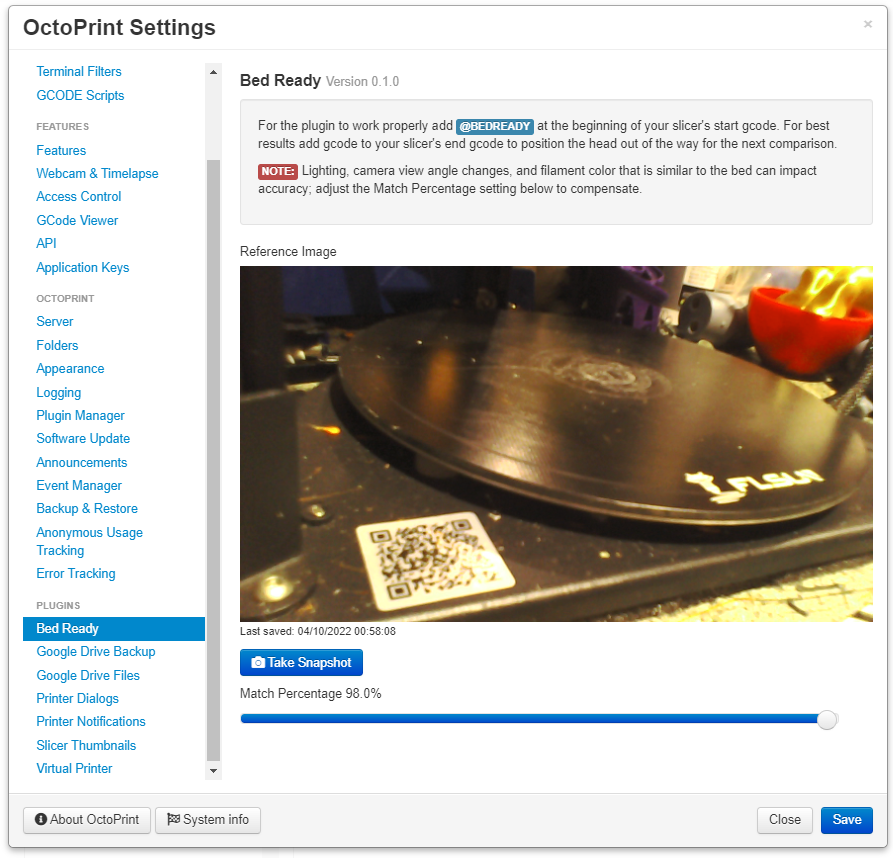
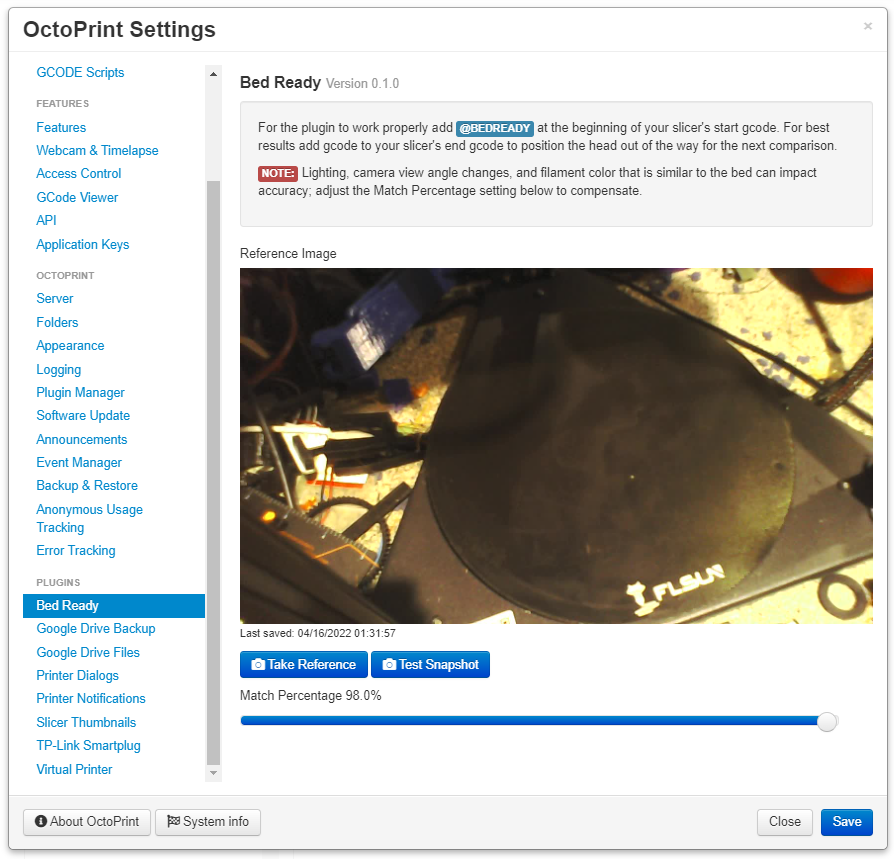
add test snapshot and related readme updates

diff --git a/octoprint_bedready/static/js/bedready.js b/octoprint_bedready/static/js/bedready.js
@@ -29,6 +29,8 @@ $(function () {
             }
             if (data.hasOwnProperty('similarity')) {
                 self.popup_options.text = '<div class="row-fluid"><p>Match percentage calculated as <span class="label label-warning">' + (parseFloat(data.similarity) * 100).toFixed(2) + '%</span>.</p><p>Print job has been paused, check bed and then resume.</p><p><img src="/plugin/bedready/images/compare.jpg?' + Math.round(new Date().getTime() / 1000) + '"></p></div>';
+                self.popup_options.type = 'error';
+                self.popup_options.title = 'Bed Not Ready';
                 if (self.popup === undefined) {
                     self.popup = PNotify.singleButtonNotify(self.popup_options);
                 } else {
@@ -45,7 +47,7 @@ $(function () {
             OctoPrint.simpleApiCommand('bedready', 'take_snapshot')
                 .done(function (response) {
                     if (response.hasOwnProperty('reference_image')) {
-                        self.settingsViewModel.settings.plugins.bedready.reference_image(response.reference_image);
+                        self.settingsViewModel.settings.plugins.bedready.reference_image(response.url);
                         self.settingsViewModel.settings.plugins.bedready.reference_image_timestamp(response.reference_image_timestamp);
                     } else {
                         new PNotify({
@@ -53,6 +55,32 @@ $(function () {
                             text: '<div class="row-fluid"><p>There was an error saving the reference snapshot.</p></div><p><pre style="padding-top: 5px;">' + response.error + '</pre></p>',
                             hide: true
                         });
+                    }
+                    self.taking_snapshot(false);
+                });
+        };
+
+        self.test_snapshot = function () {
+            self.taking_snapshot(true);
+            OctoPrint.simpleApiCommand('bedready', 'take_snapshot', {test: true})
+                .done(function (response) {
+                    if (response.hasOwnProperty('test_image')) {
+                        self.popup_options.text = '<div class="row-fluid"><p>Match percentage calculated as <span class="label label-info">' + (parseFloat(response.similarity) * 100).toFixed(2) + '%</span>.</p><p><img src="' + response.test_image + '"></p></div>';
+                        if (parseFloat(response.similarity) < parseFloat(self.settingsViewModel.settings.plugins.bedready.match_percentage())) {
+                            self.popup_options.type = 'error';
+                        } else {
+                            self.popup_options.type = 'success';
+                        }
+
+                        self.popup_options.title = 'Bed Ready Test';
+                        if (self.popup === undefined) {
+                            self.popup = PNotify.singleButtonNotify(self.popup_options);
+                        } else {
+                            self.popup.update(self.popup_options);
+                            if (self.popup.state === 'closed') {
+                                self.popup.open();
+                            }
+                        }
                     }
                     self.taking_snapshot(false);
                 });

diff --git a/octoprint_bedready/static/css/bedready.css b/octoprint_bedready/static/css/bedready.css
@@ -1,3 +1,5 @@
-div.ui-pnotify.bedready_notice > div.ui-pnotify-container > div.ui-pnotify-icon > span.icon-warning-sign {
+div.ui-pnotify.bedready_notice > div.ui-pnotify-container > div.ui-pnotify-icon > span.icon-warning-sign,
+div.ui-pnotify.bedready_notice > div.ui-pnotify-container > div.ui-pnotify-icon > span.icon-info-sign
+{
     padding-top: 3px;
 }

diff --git a/octoprint_bedready/__init__.py b/octoprint_bedready/__init__.py
@@ -32,14 +32,22 @@ class BedReadyPlugin(octoprint.plugin.SettingsPlugin,
         import flask
 
         if command == "take_snapshot":
-            relative_url = self.take_snapshot("reference.jpg")
-            if "reference_image" in relative_url:
-                reference_image_timestamp = "{:%m/%d/%Y %H:%M:%S}".format(datetime.datetime.now())
-                self._settings.set(["reference_image"], relative_url["reference_image"])
-                self._settings.set(["reference_image_timestamp"], reference_image_timestamp)
-                relative_url["reference_image_timestamp"] = reference_image_timestamp
-                self._settings.save()
-            return flask.jsonify(relative_url)
+            if data.get("test", False):
+                relative_url = self.take_snapshot("test.jpg", "test_image")
+                if "test_image" in relative_url:
+                    similarity = self.compare_images(os.path.join(self.get_plugin_data_folder(), "reference.jpg"), relative_url["test_image"])
+                    return flask.jsonify({"test_image": relative_url["url"], "similarity": round(similarity, 4)})
+                else:
+                    return flask.jsonify({"error": relative_url})
+            else:
+                relative_url = self.take_snapshot("reference.jpg")
+                if "reference_image" in relative_url:
+                    reference_image_timestamp = "{:%m/%d/%Y %H:%M:%S}".format(datetime.datetime.now())
+                    self._settings.set(["reference_image"], relative_url["url"])
+                    self._settings.set(["reference_image_timestamp"], reference_image_timestamp)
+                    relative_url["reference_image_timestamp"] = reference_image_timestamp
+                    self._settings.save()
+                return flask.jsonify(relative_url)
 
     def take_snapshot(self, filename=None, filetype="reference_image"):
         if self._settings.global_get(["webcam", "snapshot_url"]) == "" or not filename:
@@ -51,10 +59,7 @@ class BedReadyPlugin(octoprint.plugin.SettingsPlugin,
             with open(download_file_name, "wb") as f:
                 f.write(response.content)
             if os.path.exists(download_file_name):
-                if filetype == "reference_image":
-                    return {"reference_image": "/plugin/bedready/images/reference.jpg?{:%Y%m%d%H%M%S}".format(datetime.datetime.now())}
-                else:
-                    return {filetype: download_file_name}
+                return {filetype: download_file_name, "url": "/plugin/bedready/images/{}?{:%Y%m%d%H%M%S}".format(filename, datetime.datetime.now())}
             else:
                 return {"error": "unable to save file."}
         else:
@@ -94,6 +99,14 @@ class BedReadyPlugin(octoprint.plugin.SettingsPlugin,
                                                              lambda path: not is_hidden_path(path), status_code=404)))
         ]
 
+    def compare_images(self, reference_image, comparison_image):
+        import cv2
+        reference_image = cv2.imread(reference_image)
+        comparison_image = cv2.imread(comparison_image)
+        height, width, channels = reference_image.shape
+        pixel_difference = cv2.norm(reference_image, comparison_image, cv2.NORM_L2)
+        return 1 - pixel_difference / (height * width)
+
     ##~~ @ command hook
 
     def process_at_command(self, comm, phase, command, parameters, tags=None, *args, **kwargs):
@@ -107,12 +120,7 @@ class BedReadyPlugin(octoprint.plugin.SettingsPlugin,
                 self._logger.error(comparison_image["error"])
                 return
             self._logger.info("file saved: {}".format(comparison_image))
-            import cv2
-            reference_image = cv2.imread(os.path.join(self.get_plugin_data_folder(), "reference.jpg"))
-            comparison_image = cv2.imread(os.path.join(self.get_plugin_data_folder(), "compare.jpg"))
-            height, width, channels = reference_image.shape
-            pixel_difference = cv2.norm(reference_image, comparison_image, cv2.NORM_L2)
-            similarity = 1 - pixel_difference / (height * width)
+            similarity = self.compare_images(os.path.join(self.get_plugin_data_folder(), "reference.jpg"), comparison_image["comparison_image"])
             if similarity < self._settings.get_float(["match_percentage"]):
                 self._logger.info("match '{}' not close enough".format(similarity))
                 self._printer.pause_print(tags={self._identifier})

diff --git a/setup.py b/setup.py
@@ -14,7 +14,7 @@ plugin_package = "octoprint_bedready"
 plugin_name = "Bed Ready"
 
 # The plugin's version. Can be overwritten within OctoPrint's internal data via __plugin_version__ in the plugin module
-plugin_version = "0.1.0"
+plugin_version = "0.1.1"
 
 # The plugin's description. Can be overwritten within OctoPrint's internal data via __plugin_description__ in the plugin
 # module

diff --git a/README.md b/README.md
@@ -19,6 +19,10 @@ or manually using this URL:
 
 ![Settings Screenshot](screenshot_settings.png)
 
+Use the Test Snapshot button to compare the currently stored Reference Image with the bed.
+
+![Test Results](screenshot_test_results.png)
+
 ## Get Help
 
 If you experience issues with this plugin or need assistance please use the issue tracker by clicking issues above.
